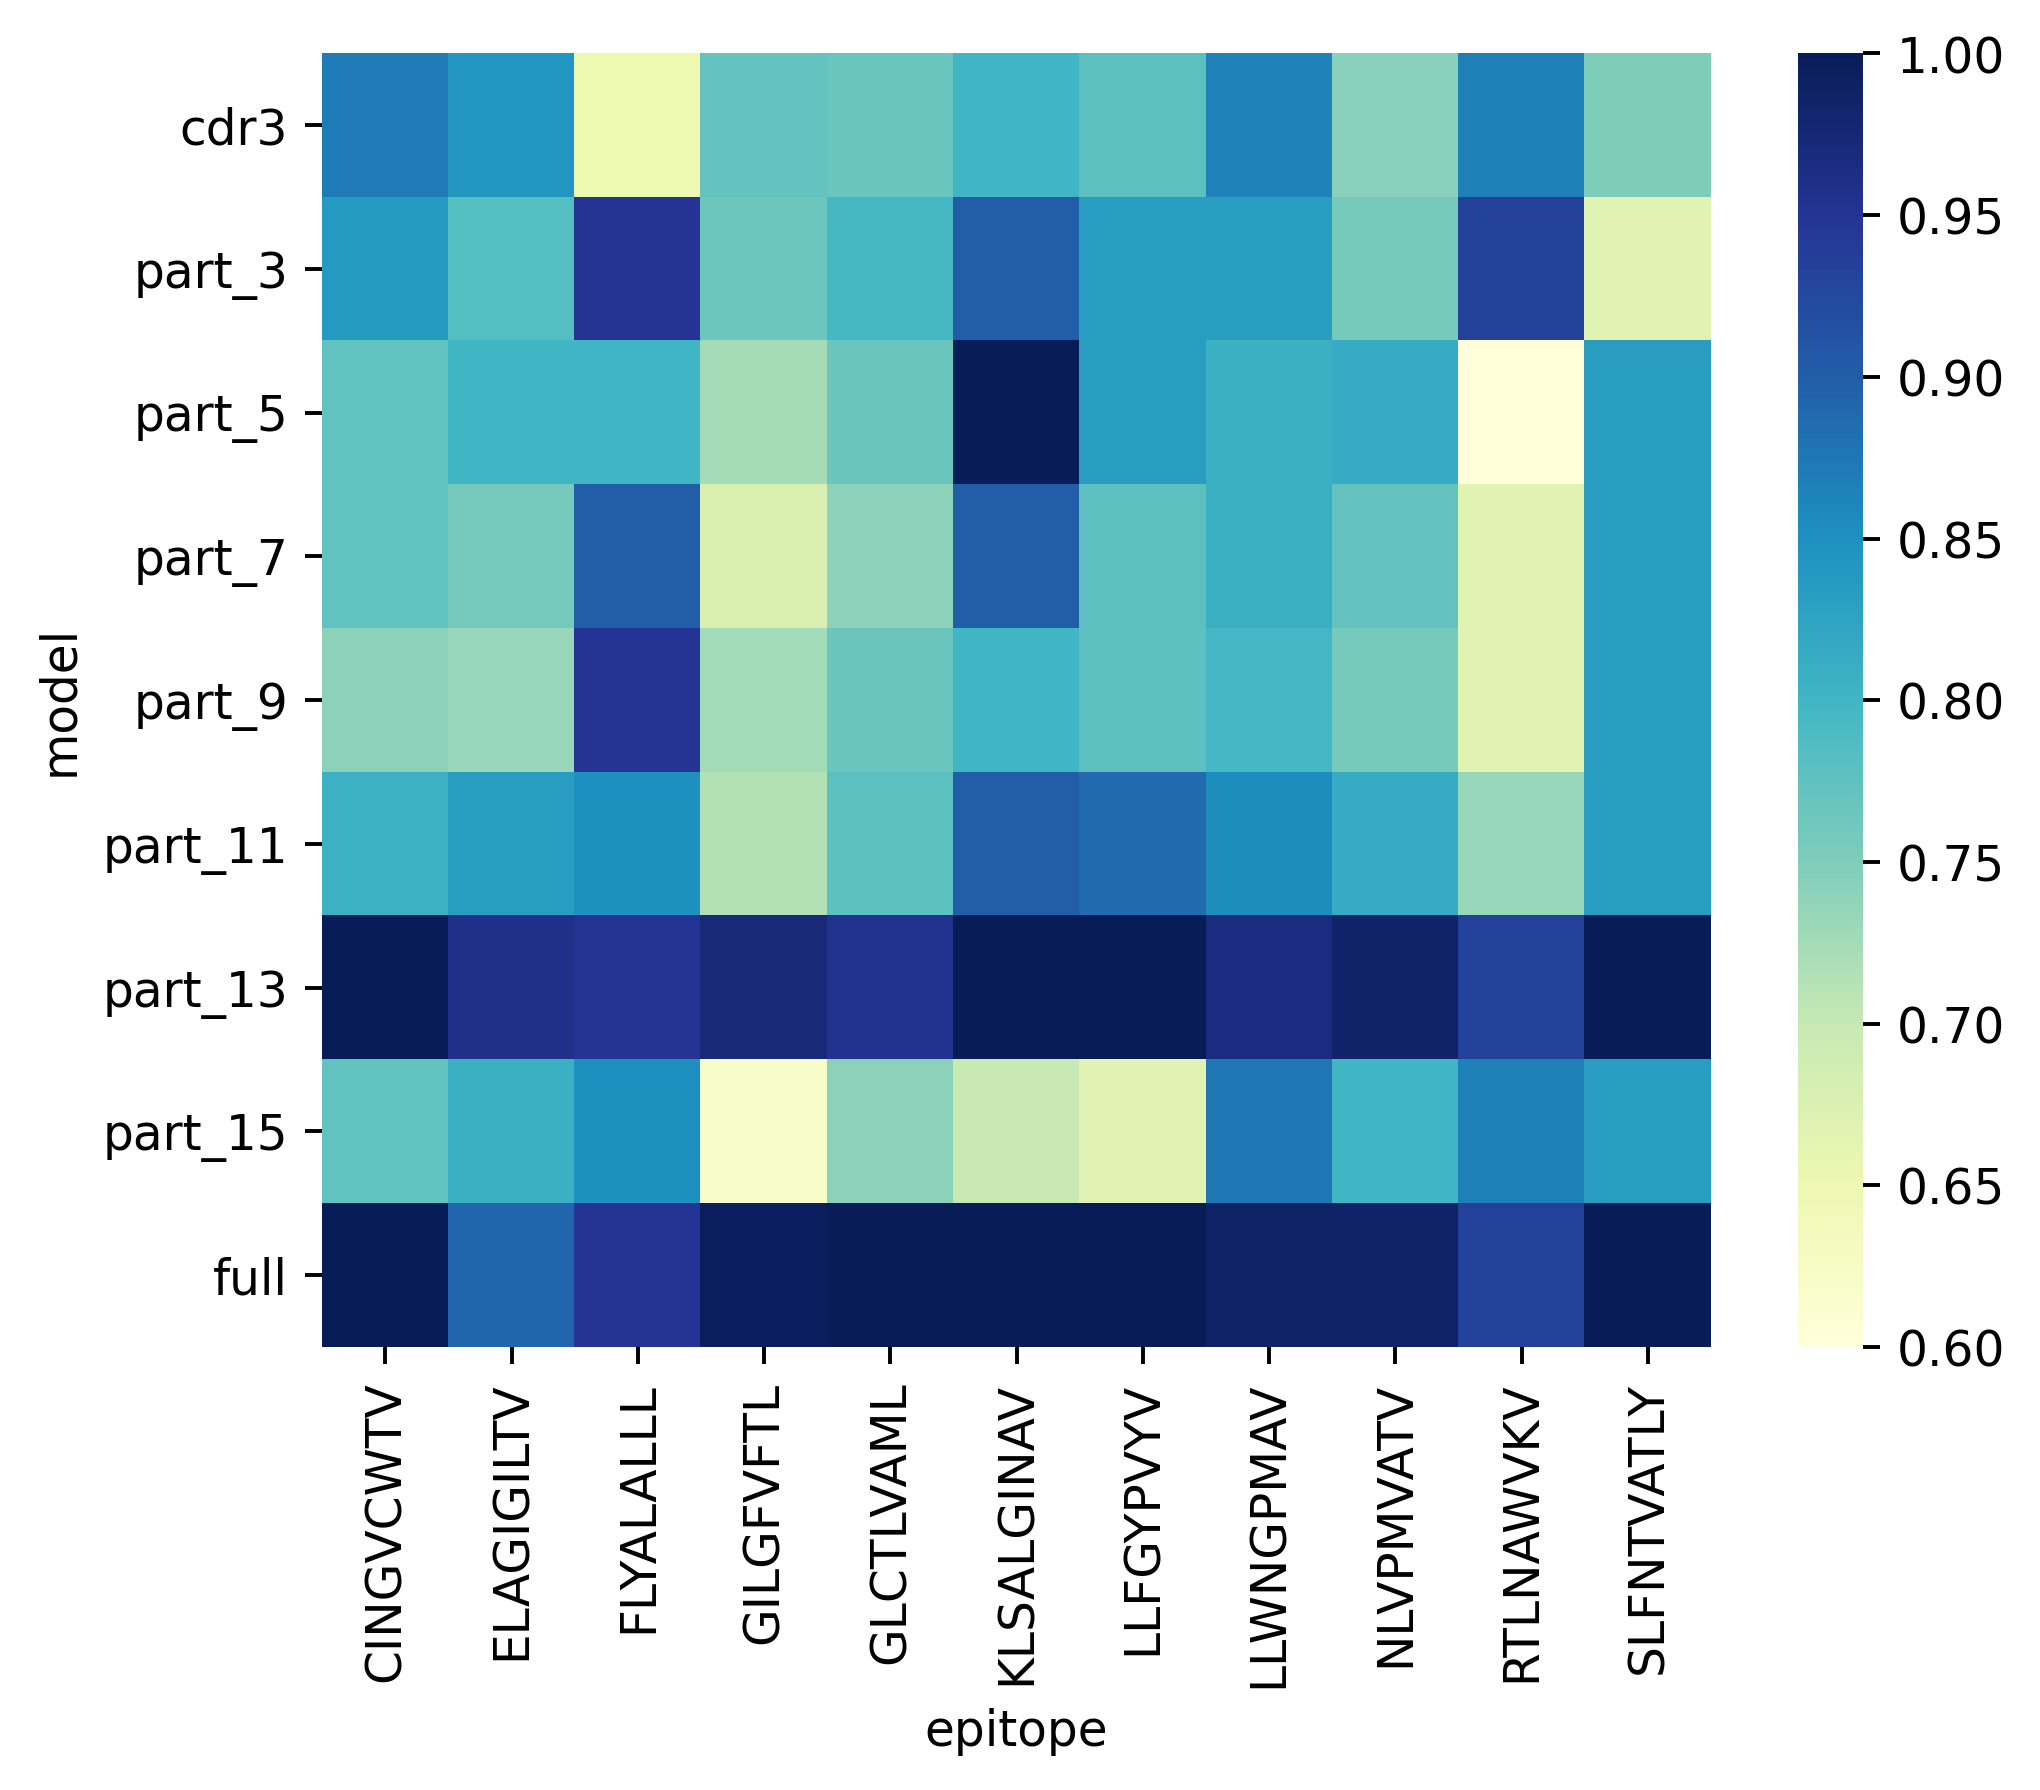
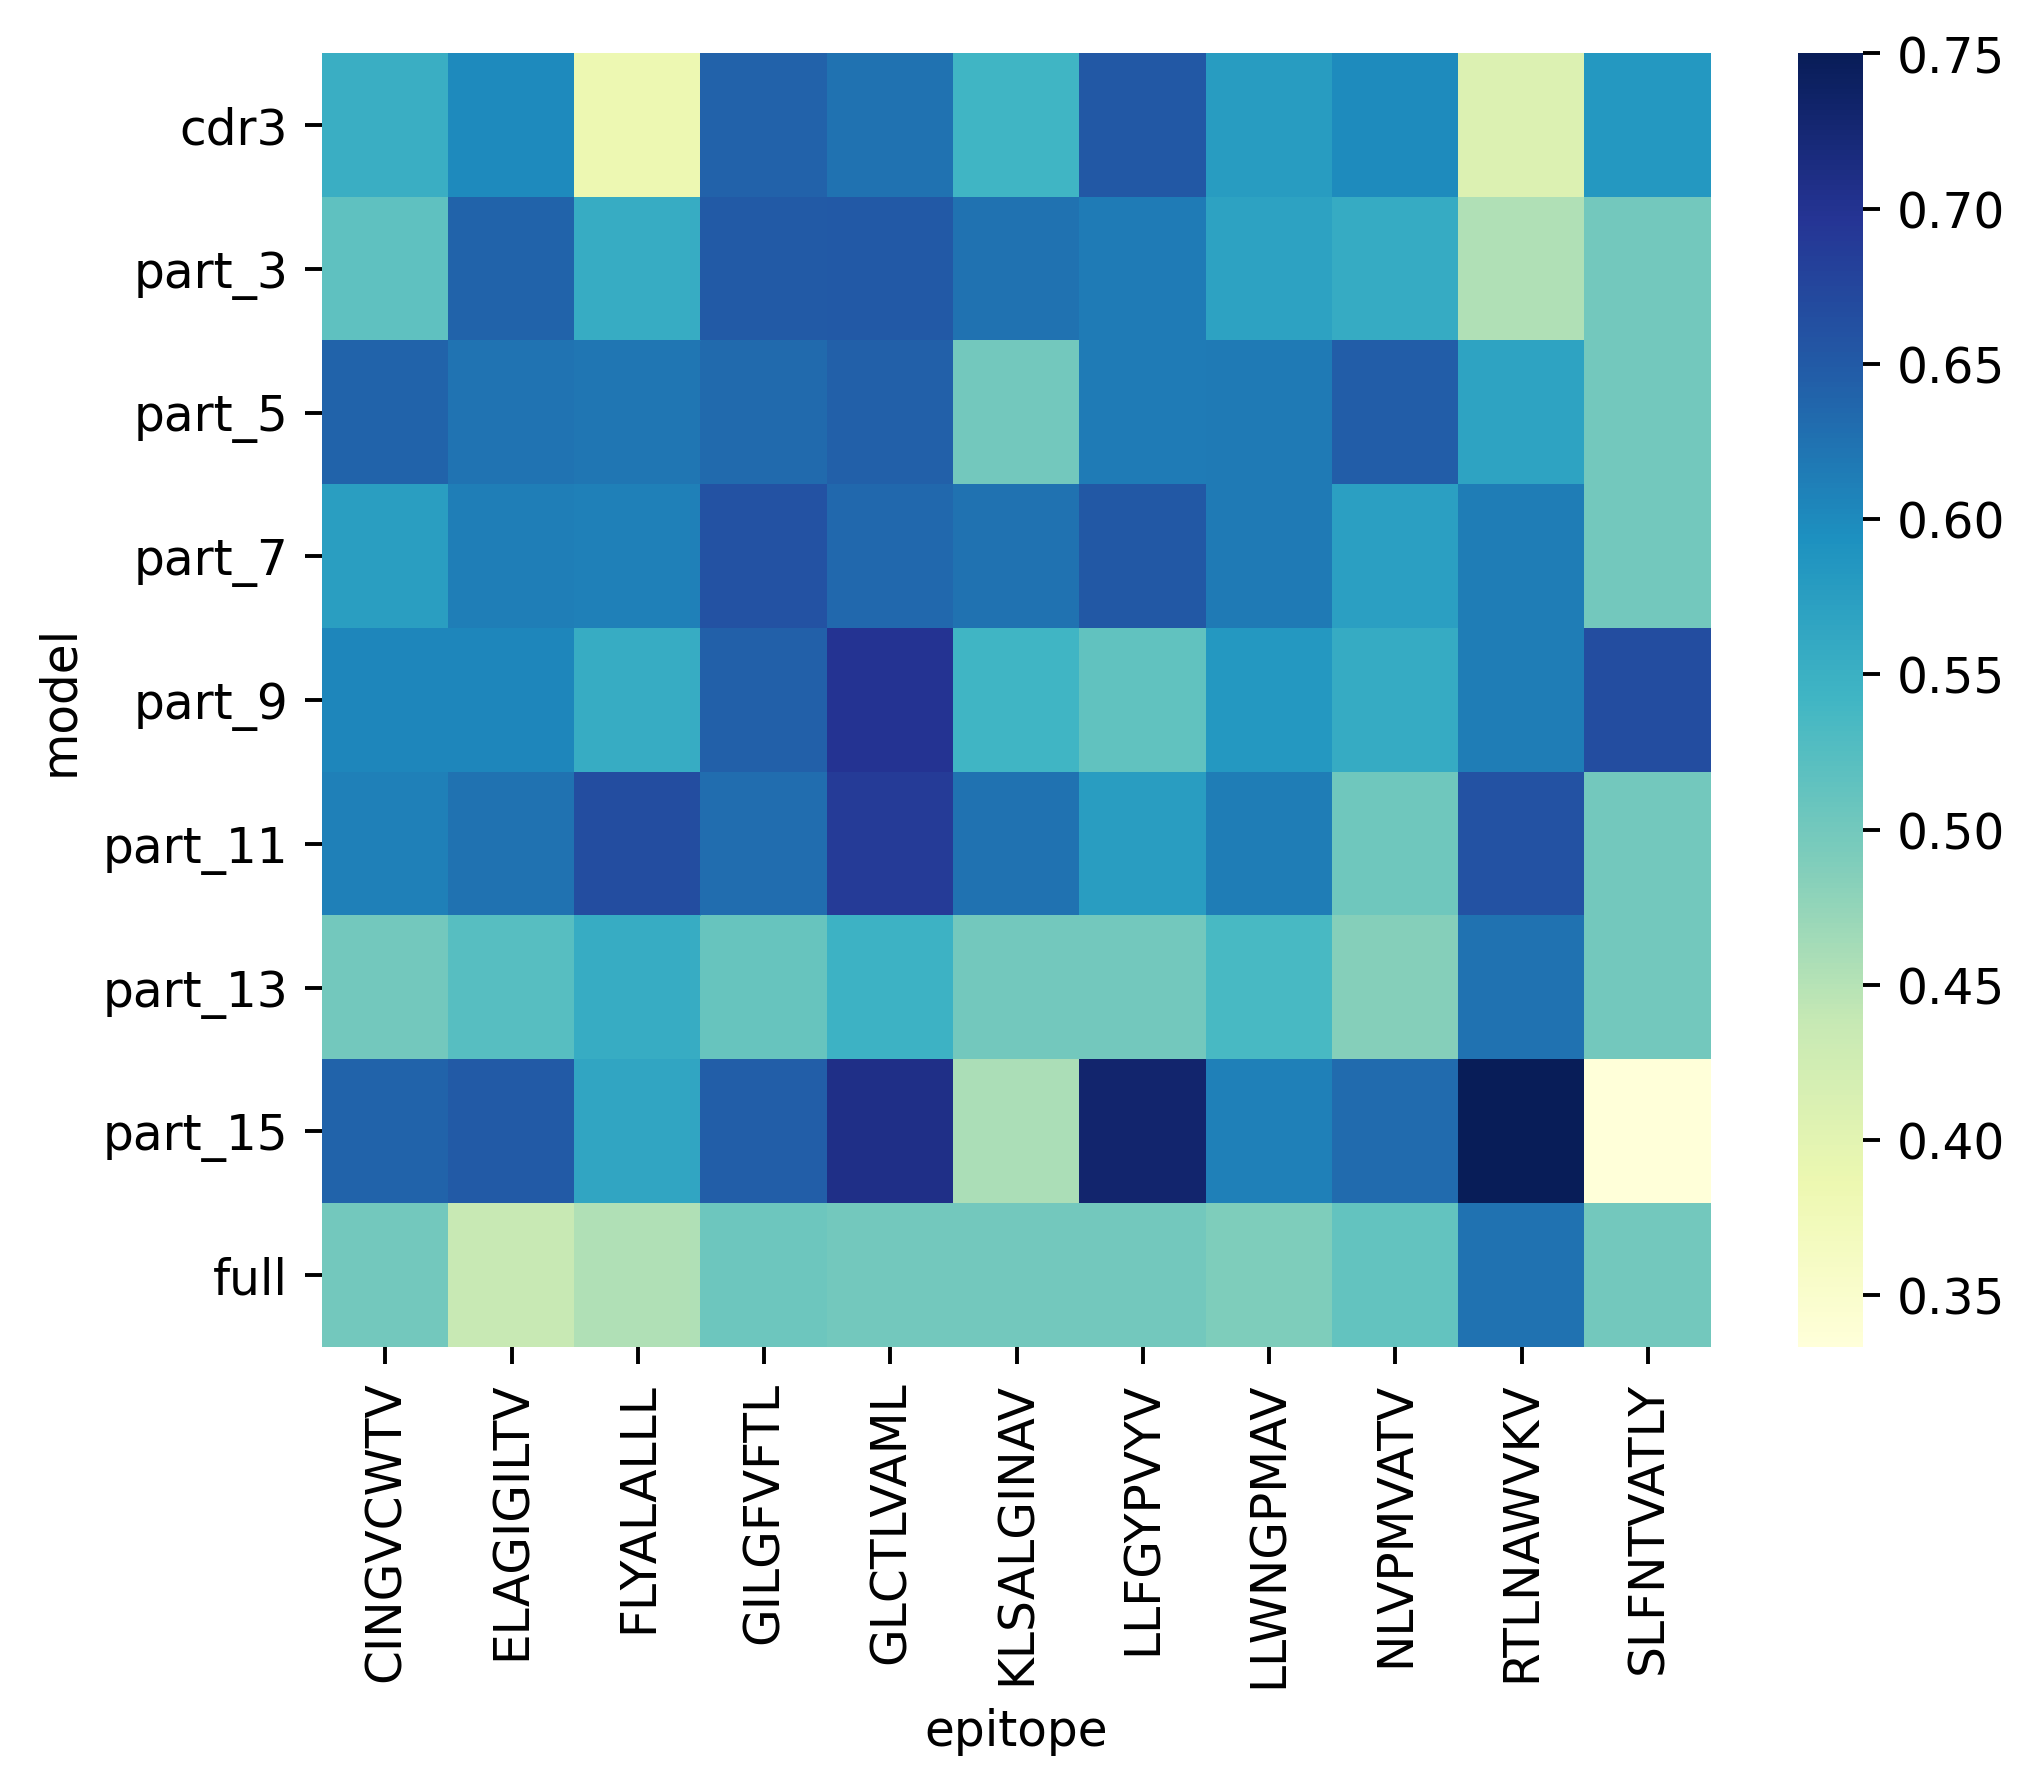
Fixed typo in firstvalidationdata_df.tsv.gz columns, changes in epitope comparison, added example_input.tsv

diff --git a/tcrpair_epitopecomparison.py b/tcrpair_epitopecomparison.py
@@ -12,7 +12,7 @@ def main():
 
 	mn_list = list()
 	ep_list = list()
-	rc_list = list()
+	auc_list = list()
 
 	# Load data
 	test_df = pd.read_csv(
@@ -30,6 +30,14 @@ def main():
 
 			ep_df = test_df.loc[test_df['antigen.epitope'] == epitope]
 			if len(ep_df) >= 10:
+				# # Save NetTCR testdata
+				# if epitope == 'GILGFVFTL':
+				# 	ep_df.loc[ep_df['recognition'] == 0].to_csv(
+				# 		os.path.join(tcrpair_config.gil_path, 'nettcr_testdata_neg.tsv'),
+				# 		index=False, sep='\t', columns=['cdr3.alpha', 'cdr3.beta'], header=False)
+				# 	ep_df.loc[ep_df['recognition'] == 1].to_csv(
+				# 		os.path.join(tcrpair_config.gil_path, 'nettcr_testdata_pos.tsv'),
+				# 		index=False, sep='\t', columns=['cdr3.alpha', 'cdr3.beta'], header=False)
 				seq_cols = [x for x in tcrpair_config.seq_cols if not x.startswith('part')]
 				if dt == 'part':
 					# Add partial sequences
@@ -47,18 +55,28 @@ def main():
 					)
 				).round()
 
-				recall = metrics.recall_score([1] * len(ep_df), ep_df['predicted.functionality'].to_list())
+				auc = metrics.roc_auc_score(ep_df['recognition'].to_list(), ep_df['predicted.functionality'].to_list())
 
 				mn_list.append(modelname)
 				ep_list.append(epitope)
-				rc_list.append(recall)
+				auc_list.append(auc)
+
+				# Compare NetTCR results
+				# if epitope == 'GILGFVFTL':
+				# 	net_pos_df = pd.read_csv(os.path.join(tcrpair_config.gil_path, 'nettcr_predictions_pos.csv'), sep='\t')
+				# 	net_neg_df = pd.read_csv(os.path.join(tcrpair_config.gil_path, 'nettcr_predictions_neg.csv'), sep='\t')
+				# 	net_recall = metrics.recall_score([1] * len(net_pos_df), [round(x) for x in net_pos_df['prediction'].to_list()])
+				# 	i = 0
+				# test1 = metrics.roc_auc_score(ep_df['recognition'], ep_df['predicted.functionality'].to_list())
+				# test2 = metrics.roc_auc_score([1] * len(net_pos_df) + [0] * len(net_neg_df),
+				# 							 net_pos_df['prediction'].to_list() + net_neg_df['prediction'].to_list())
 
 	results_df = pd.DataFrame(
 		{'model' : mn_list,
 		 'epitope' : ep_list,
-		 'recall' : rc_list}
+		 'auc' : auc_list}
 	)
-	results_df = results_df.pivot(index='model', columns='epitope', values='recall')
+	results_df = results_df.pivot(index='model', columns='epitope', values='auc')
 	results_df['order'] = results_df.index
 	results_df['model'] = results_df['order'].apply(lambda x: '_'.join(x.split('_')[0:-1]))
 	results_df['order'] = results_df['order'].apply(lambda x: x.split('-')[1])

diff --git a/modules/mldata.py b/modules/mldata.py
@@ -123,7 +123,7 @@ def store_validation_data(pos_df: pd.DataFrame, neg_df: pd.DataFrame):
 	X_train_df, X_test_df, y_train, y_test = split_data(df[['antigen.epitope', 'antigen.gene', 'antigen.species',
 				   'cdr3.alpha', 'cdr3.beta',
 				   'j.alpha', 'j.beta', 'v.alpha', 'v.beta', 'mhc.a']], df['recognition'])
-	X_test_df.insert(len(X_test_df.columns), 'recognnition', y_test)
+	X_test_df.insert(len(X_test_df.columns), 'recognition', y_test)
 	X_test_df.to_csv(
 		os.path.join(
 			tcrpair_config.val_path, 'firstvalidationdata_df.tsv.gz'
